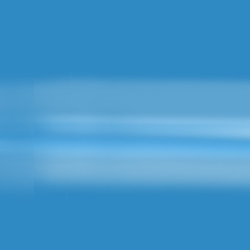
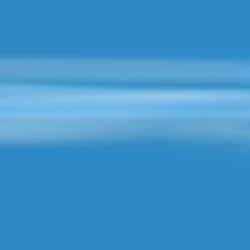
changes images for skybox in winter

diff --git a/Winter.js b/Winter.js
@@ -31,7 +31,7 @@ function Winter(yOffset) {
         scene.add(winterSpotLight);
 
         //fog (just in winter)
-        scene.fog = new THREE.FogExp2( 0xffffff, 0.0020 );
+        scene.fog = new THREE.FogExp2( 0xffffff, 0.0029 );
 
         //winterGround
         winterGround = ground.doGround(ground.doGroundGeometry(), winterGroundColor);
